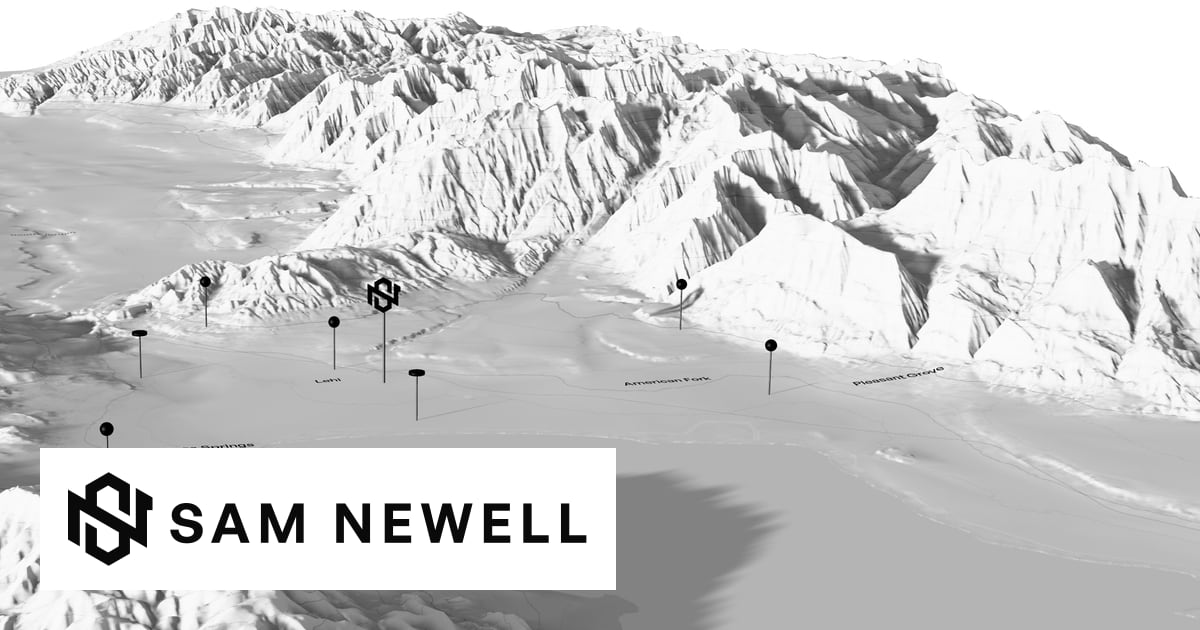
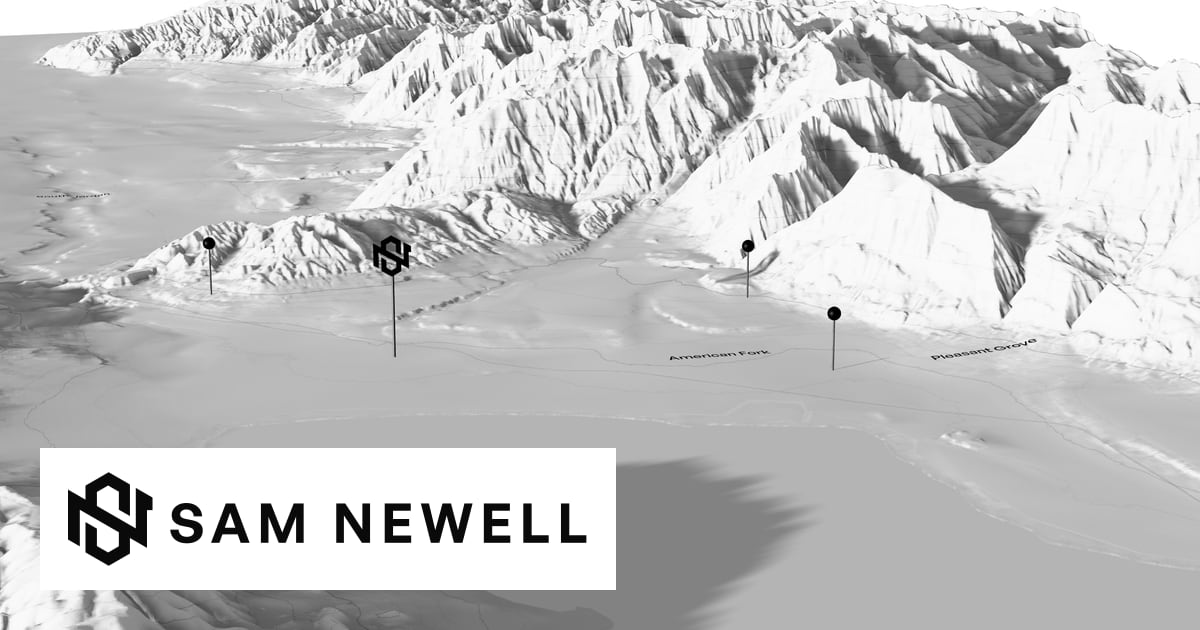
P0: hero composition, no clipped title plates, clean ?record hand-off
- Hero aim solved per rig and bearing: SN pin in the upper frame (y <= .42 desktop), Utah Lake
  north half low as the calm band; pins and town labels under the title fade out (live and in
  the posters); distance clamped to the model check's lens
- Per-line title plates removed; one plate only below 3:1 (219 px display type = large text);
  no poster needs it now (p5 contrast 3.15-15.3)
- ?record uses the bucket bearing like a visit and freezes 17:45 in boot and engine: poster vs
  live mean |delta| 2.25/255 at the hand-off
- Tablet rig widened (dist 64, elev 18, vfov 27); SN plate glows white at night
- All 15 posters + overview + OG re-captured from the live renderer

diff --git a/src/relief/relief.ts b/src/relief/relief.ts
@@ -43,17 +43,22 @@ export function lookFor(altDeg: number, az: number): Look {
 
 // ——— rigs (reference frames for poster parity) and poses ———
 export type Rig = 'desktop' | 'tablet' | 'phone';
-export const RIGS: Record<Rig, { w: number; h: number; dist: number; elev: number; vfov: number; beyond: number }> = {
-  desktop: { w: 2560, h: 1440, dist: 54, elev: 14, vfov: 17, beyond: 4 },
-  tablet: { w: 1536, h: 2048, dist: 50, elev: 16, vfov: 22, beyond: 3.5 },
-  phone: { w: 1170, h: 2532, dist: 44, elev: 18, vfov: 24, beyond: 3 },
+export interface RigSpec { w: number; h: number; dist: number; elev: number; vfov: number; beyond: number; lake: [number, number]; snMaxY: number; title: [number, number, number, number] }
+/**
+ * lake = where the Utah Lake north-half centroid sits in the reference frame (the calm band under the title);
+ * snMaxY = the SN pin must stay above this (upper frame); title = the title's box in reference-frame fractions
+ * (x0, y0, x1, y1), used to fade pins/labels that would sit under the name (design review #2).
+ */
+export const RIGS: Record<Rig, RigSpec> = {
+  desktop: { w: 2560, h: 1440, dist: 54, elev: 14, vfov: 17, beyond: 4, lake: [0.3, 0.84], snMaxY: 0.42, title: [0.0, 0.5, 0.5, 1.0] },
+  tablet: { w: 1536, h: 2048, dist: 64, elev: 18, vfov: 27, beyond: 4, lake: [0.3, 0.82], snMaxY: 0.45, title: [0.0, 0.62, 0.86, 0.98] },
+  phone: { w: 1170, h: 2532, dist: 44, elev: 18, vfov: 24, beyond: 3, lake: [0.36, 0.74], snMaxY: 0.5, title: [0.0, 0.6, 0.9, 0.86] },
 };
 /** Same thresholds as the <picture> media queries in Hero.astro (viewport aspect). */
 export const rigFor = (aspect: number): Rig => (aspect >= 1.2 ? 'desktop' : aspect >= 0.75 ? 'tablet' : 'phone');
 
-// The visible north bay of Utah Lake (its bbox centre lies 19 km south, behind the camera at hero framing).
-const LAKE = new Vector3(0.8, 0.16, 9.0);
-const TITLE_SPOT = new Vector2(0.32, 0.8); // I-1: the calm band under the title
+// Utah Lake north-half centroid, ≈ 40.30 N 111.80 W (scene km: 4.3 E, 10.2 S), on the inlay surface.
+const LAKE = new Vector3(4.3, 0.16, 10.2);
 const deg = Math.PI / 180;
 
 /** Compass bearing (from north, clockwise) in [195, 235] that puts the sun ~100° off the camera axis (I-1). */
@@ -306,13 +311,15 @@ export class Engine {
       g.name = `pin:${p.id}`;
       const head = (p.s === 'for-sale' ? proto.live : proto.past).clone();
       const needle = proto.needle.clone();
-      head.traverse((o) => { if ((o as Mesh).isMesh) { (o as Mesh).castShadow = false; this.pinMats.push((o as Mesh).material as Material); } });
-      needle.traverse((o) => { if ((o as Mesh).isMesh) (o as Mesh).castShadow = false; });
+      // own materials per pin, so each can fade on its own (title occlusion)
+      head.traverse((o) => { const m = o as Mesh; if (m.isMesh) { m.castShadow = false; m.material = (m.material as Material).clone(); this.pinMats.push(m.material as Material); } });
+      needle.traverse((o) => { const m = o as Mesh; if (m.isMesh) { m.castShadow = false; m.material = (m.material as Material).clone(); } });
       g.add(head, needle);
       // map data y = SVG y = −north = scene z (+z south)
       const y = this.heightAt(p.x, p.y);
       g.position.set(p.x, y, p.y);
-      const streak = new Mesh(new PlaneGeometry(0.09, 1), streakMat);
+      const streak = new Mesh(new PlaneGeometry(0.09, 1), streakMat.clone());
+      g.userData.streak = streak;
       streak.rotation.x = -Math.PI / 2;
       streak.position.set(p.x, y + 0.006, p.y);
       this.pinStreaks.push(streak);
@@ -324,6 +331,7 @@ export class Engine {
       const m = o as Mesh;
       if (!m.isMesh) return;
       m.castShadow = o.name.includes('mark'); // the SN plate's shadow on Lehi stays; the needle's ruled line does not // taste-skill-ignore: WebGL sun shadow, not a CSS shadow
+      if (o.name.includes('mark')) this.pinMats.push(m.material as Material); // night: the plate's face glows white // taste-skill-ignore: WebGL sun shadow, not a CSS shadow
     });
     this.snPin.position.set(0, this.heightAt(0, 0), 0);
     this.scene.add(this.snPin);
@@ -404,26 +412,79 @@ export class Engine {
    * Render a view: the reference frame (refW×refH) gets the I-1 lens shift, then the element shows a cover crop of it
    * (object-position 50% 50%) — identical to the poster <img> with object-fit: cover.
    */
-  setView(pose: Pose, W: number, H: number, ref: { w: number; h: number } | null, shiftToFree?: { cx: number; cy: number }) {
-    const cam = this.camera;
-    camFromPose(cam, pose);
-    cam.aspect = W / H;
-    cam.clearViewOffset();
-    if (ref) {
-      cam.aspect = ref.w / ref.h;
+  private composeCache = new Map<string, Pose>();
+  /** Solve target (x, z) and distance so LAKE → rig.lake and SN head → y = rig.snMaxY, for this bearing/elev. */
+  composeHero(pose: Pose, ref: RigSpec): Pose {
+    const key = `${ref.w}:${pose.bearing.toFixed(2)}:${pose.elev.toFixed(2)}:${pose.dist.toFixed(2)}`;
+    const hit = this.composeCache.get(key);
+    if (hit) return hit;
+    const cam = new PerspectiveCamera(pose.vfov, ref.w / ref.h, 0.5, 900);
+    const sn = (this.snPin?.position.clone() ?? new Vector3()).add(new Vector3(0, 2, 0));
+    const proj = (q: Pose) => {
+      camFromPose(cam, q);
       cam.updateProjectionMatrix();
       cam.updateMatrixWorld();
-      const p = LAKE.clone().project(cam);
-      const cx = (p.x + 1) / 2, cy = (1 - p.y) / 2;
-      const sx = Math.max(-0.18, Math.min(0.18, cx - TITLE_SPOT.x));
-      const sy = Math.max(-0.02, Math.min(0.12, cy - TITLE_SPOT.y)); // never open a void above the crest
+      const a = LAKE.clone().project(cam), b = sn.clone().project(cam);
+      // lx carries the SN pin's x (kept in frame, left third, over the lake's north shore); the lake's own x follows
+      return { lx: (b.x + 1) / 2, ly: (1 - a.y) / 2, sy: (1 - b.y) / 2 };
+    };
+    const want = { lx: ref.lake[0], ly: ref.lake[1], sy: ref.snMaxY - 0.02 };
+    let q = { ...pose };
+    const b = pose.bearing * deg;
+    const fwd = new Vector3(-Math.sin(b), 0, Math.cos(b)); // ground direction away from the camera
+    const right = new Vector3(Math.cos(b), 0, Math.sin(b));
+    for (let i = 0; i < 40; i++) {
+      const r = proj(q);
+      const e = [r.lx - want.lx, r.ly - want.ly, r.sy - want.sy];
+      if (Math.hypot(...e) < 0.002) break;
+      // numeric Jacobian over (pan right, pan forward, log distance)
+      const h = [0.05, 0.05, 0.01];
+      const vars = (d: number[]) => ({ ...q, tx: q.tx + right.x * d[0] + fwd.x * d[1], tz: q.tz + right.z * d[0] + fwd.z * d[1], dist: q.dist * Math.exp(d[2]) });
+      const J = [0, 1, 2].map((k) => {
+        const d = [0, 0, 0]; d[k] = h[k];
+        const rr = proj(vars(d));
+        return [(rr.lx - r.lx) / h[k], (rr.ly - r.ly) / h[k], (rr.sy - r.sy) / h[k]];
+      });
+      // solve J^T columns: A x = -e, A[i][k] = J[k][i]
+      const A = [0, 1, 2].map((i) => [J[0][i], J[1][i], J[2][i]]);
+      const x = solve3(A, e.map((v) => -v));
+      if (!x) break;
+      const step = x.map((v, k) => Math.max(-[2, 2, 0.15][k], Math.min([2, 2, 0.15][k], v)));
+      q = vars(step);
+      q.dist = Math.max(46, Math.min(110, q.dist)); // never closer than the model check's lens
+    }
+    if (this.composeCache.size > 64) this.composeCache.clear();
+    this.composeCache.set(key, q);
+    return q;
+  }
+
+  /** Lens shift (fractions of the reference frame) that puts the lake centroid on the rig's calm-band spot. */
+  lensShift(rig: RigSpec) {
+    const cam = this.camera;
+    const p = LAKE.clone().project(cam);
+    const cx = (p.x + 1) / 2, cy = (1 - p.y) / 2;
+    return { sx: Math.max(-0.12, Math.min(0.12, cx - rig.lake[0])), sy: Math.max(-0.12, Math.min(0.12, cy - rig.lake[1])) };
+  }
+
+  setView(pose: Pose, W: number, H: number, ref: RigSpec | null, shiftToFree?: { cx: number; cy: number }, after?: (p: Pose) => Pose) {
+    const cam = this.camera;
+    cam.clearViewOffset();
+    if (ref) {
+      // Compose like the concept (design review #2): solve the aim (target pan + distance) so the Utah Lake
+      // north-half centroid lands on the calm band under the title and the SN pin stands in the upper frame.
+      let p = this.composeHero(pose, ref);
+      if (after) p = after(p);
+      camFromPose(cam, p);
+      cam.aspect = ref.w / ref.h;
+      cam.updateProjectionMatrix();
       const s = Math.max(W / ref.w, H / ref.h);
       const fw = ref.w * s, fh = ref.h * s;
-      cam.setViewOffset(fw, fh, (fw - W) / 2 + sx * fw, (fh - H) / 2 + sy * fh, W, H);
-    } else if (shiftToFree) {
-      cam.setViewOffset(W, H, W / 2 - shiftToFree.cx, H / 2 - shiftToFree.cy, W, H);
+      cam.setViewOffset(fw, fh, (fw - W) / 2, (fh - H) / 2, W, H);
     } else {
-      cam.updateProjectionMatrix();
+      camFromPose(cam, pose);
+      cam.aspect = W / H;
+      if (shiftToFree) cam.setViewOffset(W, H, W / 2 - shiftToFree.cx, H / 2 - shiftToFree.cy, W, H);
+      else cam.updateProjectionMatrix();
     }
     cam.updateMatrixWorld();
     // billboard the SN plate to the camera (vertical axis only)
@@ -431,11 +492,46 @@ export class Engine {
     // labels: printed type, faded with distance (60–75 units)
     for (const l of this.labels) {
       const d = cam.position.distanceTo(l.getWorldPosition(new Vector3()));
-      const a = 1 - Math.min(1, Math.max(0, (d - 60) / 15));
-      (l.material as MeshStandardMaterial).opacity = a;
-      l.visible = a > 0.01;
+      l.userData.distA = 1 - Math.min(1, Math.max(0, (d - 60) / 15));
     }
   }
+
+  /**
+   * Fade listing pins and town labels whose projected anchor falls inside `box` (fractions of the current view,
+   * already padded) — nothing pokes through "Sam Newell". k = 1 jumps straight to the target (posters, reduced motion).
+   */
+  occlude(box: [number, number, number, number] | null, k: number) {
+    const cam = this.camera;
+    const inside = (v: Vector3) => {
+      if (!box) return false;
+      const p = v.project(cam);
+      const x = (p.x + 1) / 2, y = (1 - p.y) / 2;
+      return x >= box[0] && x <= box[2] && y >= box[1] && y <= box[3];
+    };
+    for (const [, g] of this.pinRoots) {
+      const head = g.position.clone().add(new Vector3(0, 1.05, 0));
+      const base = g.position.clone();
+      const target = inside(head) || inside(base) ? 0 : 1;
+      const a = (g.userData.a ?? 1) + (target - (g.userData.a ?? 1)) * k;
+      g.userData.a = a;
+      g.visible = a > 0.01;
+      g.traverse((o) => {
+        const m = (o as Mesh).material as MeshStandardMaterial | undefined;
+        if (m) { m.transparent = a < 0.999; m.opacity = a; }
+      });
+      const st = g.userData.streak as Mesh | undefined;
+      if (st) (st.material as MeshBasicMaterial).opacity = a;
+    }
+    for (const l of this.labels) {
+      const target = box && inside(l.getWorldPosition(new Vector3())) ? 0 : 1;
+      const a = (l.userData.occA ?? 1) + (target - (l.userData.occA ?? 1)) * k;
+      l.userData.occA = a;
+      const total = a * (l.userData.distA ?? 1);
+      (l.material as MeshStandardMaterial).opacity = total;
+      l.visible = total > 0.01;
+    }
+  }
+
 
   render() {
     this.frame++;
@@ -469,6 +565,22 @@ export class Engine {
     this.renderer.forceContextLoss();
     this.canvas.remove();
   }
+}
+
+function solve3(A: number[][], b: number[]): number[] | null {
+  const m = A.map((r, i) => [...r, b[i]]);
+  for (let c = 0; c < 3; c++) {
+    let p = c;
+    for (let r = c + 1; r < 3; r++) if (Math.abs(m[r][c]) > Math.abs(m[p][c])) p = r;
+    if (Math.abs(m[p][c]) < 1e-9) return null;
+    [m[c], m[p]] = [m[p], m[c]];
+    for (let r = 0; r < 3; r++) {
+      if (r === c) continue;
+      const f = m[r][c] / m[c][c];
+      for (let k = c; k < 4; k++) m[r][k] -= f * m[c][k];
+    }
+  }
+  return [m[0][3] / m[0][0], m[1][3] / m[1][1], m[2][3] / m[2][2]];
 }
 
 export const MODEL_BOX = new Box3(new Vector3(-20.97, -1.8, -56.43), new Vector3(25.32, 4.6, 41.19));

diff --git a/src/relief/controller.ts b/src/relief/controller.ts
@@ -55,7 +55,7 @@ export class Controller {
     const data: { pins: PinData[]; towns: TownData[] } = json ? JSON.parse(json) : { pins: [], towns: [] };
     const tParam = q.get('t');
     const parsed = tParam ? Date.parse(tParam) : NaN;
-    const timeOverride = Number.isFinite(parsed) ? parsed : RECORD || CAPTURE ? Date.parse('2026-10-21T17:35:00-06:00') : null;
+    const timeOverride = Number.isFinite(parsed) ? parsed : RECORD || CAPTURE ? Date.parse('2026-10-21T17:45:00-06:00') : null; // = Base.astro boot default and the golden poster
     this.engine = new Engine({ tier: this.tier, pins: data.pins, towns: data.towns, record: RECORD || !!CAPTURE, timeOverride, onFallback: () => this.fallback() });
     await this.engine.load();
     const e = this.engine;
@@ -161,19 +161,18 @@ export class Controller {
       const pose = e.heroPose(rig, pb === undefined ? e.bearing : pb + (e.bearing - pb) * ease);
       const r = v.el.getBoundingClientRect();
       const p = Math.min(1, Math.max(0, -r.top / Math.max(1, r.height)));
-      if (!reduce) {
-        pose.dist *= 1 - (innerWidth < 768 ? 0.1 : 0.14) * p;
-        pose.elev += 3 * p;
-      }
       // drift ±0.6° on a 20 s sine, starting only after the hand-off so the crossfade frame matches the poster
       const t = RECORD ? e.frame / 60 : this.readyAt ? (now - this.readyAt) / 1000 : 0;
       if (!reduce && innerWidth >= 1024 && t > 1.5) pose.bearing += 0.6 * Math.sin(((t - 1.5) / 20) * Math.PI * 2);
+      // scroll dolly, applied after the composition so it really moves in
+      const dolly = (q: CamPose): CamPose => (reduce ? q : { ...q, dist: q.dist * (1 - (innerWidth < 768 ? 0.1 : 0.14) * p), elev: q.elev + 3 * p });
       const key = `hero:${rig}:${e.state}`;
       if (key !== this.shadowKey) {
         e.fitShadow(new Vector3(pose.tx, 0.5, pose.tz), 38);
         this.shadowKey = key;
       }
-      e.setView(pose, W, H, RIGS[rig]);
+      e.setView(pose, W, H, RIGS[rig], undefined, dolly);
+      e.occlude(this.titleBox(v), reduce || !v.shown ? 1 : Math.min(1, (now - this.lastFrame) / 200));
       e.render();
       drew = true;
     } else if (this.mapDirty || this.flying) {
@@ -187,6 +186,7 @@ export class Controller {
         this.shadowKey = key;
       }
       e.setView(pose, W, H, null, shift);
+      e.occlude(null, 1);
       e.render();
       drew = true;
       this.mapDirty = false;
@@ -209,14 +209,24 @@ export class Controller {
     requestAnimationFrame(this.tick);
   };
 
+  /** The hero title's box in fractions of the canvas, padded 16 px. */
+  titleBox(v: View): [number, number, number, number] | null {
+    const title = v.el.closest('[data-hero]')?.querySelector<HTMLElement>('.title');
+    if (!title) return null;
+    const c = v.el.getBoundingClientRect();
+    const r = title.getBoundingClientRect();
+    if (!c.width || !c.height) return null;
+    return [(r.left - 16 - c.left) / c.width, (r.top - 16 - c.top) / c.height, (r.right + 16 - c.left) / c.width, (r.bottom + 16 - c.top) / c.height];
+  }
+
   /** The hero keeps its poster's bearing (identical geometry for the hand-off); only the light is live. */
   posterBearing(rig: Rig): number | undefined {
-    if (RECORD || CAPTURE) return undefined;
+    if (CAPTURE) return undefined; // ?record uses the bucket bearing exactly like a visit: no double image
     const st = document.documentElement.dataset.sun as keyof (typeof posters.rigs)['desktop'] | undefined;
     return st ? posters.rigs[rig]?.[st]?.bearing : undefined;
   }
 
-  /** I-1 safety: if the title's 5th-percentile contrast over the live frame drops below 4.5:1, show its plate. */
+  /** I-1 safety: if the title's 5th-percentile contrast over the live frame drops below 3:1, show its plate. */
   checkTitle(v: View) {
     const title = v.el.closest('[data-hero]')?.querySelector<HTMLElement>('.title');
     if (!title || this.dead || this.active !== v) return;
@@ -238,7 +248,8 @@ export class Controller {
     lum.sort((a, b) => a - b);
     const l5 = lum[Math.floor(lum.length * 0.05)] ?? 1;
     const contrast = (l5 + 0.05) / (0.003 + 0.05);
-    title.closest('[data-hero]')!.classList.toggle('plate', contrast < 4.5 && e.state !== 'night');
+    // display type at ~219 px: WCAG large-text 3:1 applies (design review #1)
+    title.closest('[data-hero]')!.classList.toggle('plate', contrast < 3 && e.state !== 'night');
   }
 
   watchdog(now: number, measuring: boolean) {
@@ -334,25 +345,29 @@ export class Controller {
   capture() {
     const e = this.engine;
     const rig = (q.get('rig') as Rig) || 'desktop';
-    const ref = CAPTURE === 'overview' ? { w: 2560, h: 1440 } : RIGS[rig];
+    const ref = RIGS[rig];
+    const size = CAPTURE === 'overview' ? { w: 2560, h: 1440 } : { w: ref.w, h: ref.h };
     e.renderer.setPixelRatio(1);
-    e.renderer.setSize(ref.w, ref.h, false);
+    e.renderer.setSize(size.w, size.h, false);
     let pose: CamPose;
     if (CAPTURE === 'overview') {
       pose = { ...this.overviewPose(), dist: 190, bearing: 200, elev: 50 };
       e.fitShadow(new Vector3(pose.tx, 0.5, pose.tz), 60);
-      e.setView(pose, ref.w, ref.h, null);
+      e.setView(pose, size.w, size.h, null);
+      e.occlude(null, 1);
     } else {
       pose = e.heroPose(rig);
       e.fitShadow(new Vector3(pose.tx, 0.5, pose.tz), 38);
       e.setView(pose, ref.w, ref.h, ref);
+      const t = ref.title;
+      e.occlude([t[0] - 0.01, t[1] - 0.02, t[2] + 0.01, t[3] + 0.02], 1);
     }
     e.render();
     e.render();
-    const sn = e.project('sn', ref.w, ref.h);
+    const sn = e.project('sn', size.w, size.h);
     (window as unknown as { __capture: unknown }).__capture = {
       png: e.canvas.toDataURL('image/png'),
-      sn: sn ? { fx: sn.x / ref.w, fy: sn.y / ref.h } : null,
+      sn: sn ? { fx: sn.x / size.w, fy: sn.y / size.h } : null,
       state: e.state,
       bearing: e.bearing,
     };
